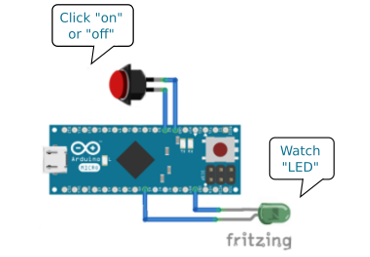
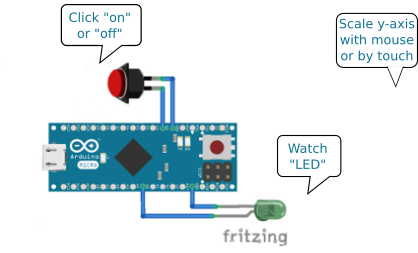
v0.12.2 (io graph multi-touch scaling)

Changed region(s): [[0.0892, 0.249, 0.9216, 0.9684], [0.8027, 0.0277, 1.0, 0.3597], [0.1189, 0.0, 0.3865, 0.249]]

diff --git a/examples/io/index.js b/examples/io/index.js
@@ -8,6 +8,7 @@ gui.init( 'I/O' )
   
 // create a IO view on page
 var ioView = gui.addIoView()
+ioView.height = '600px'
 
 // change update speed to 1 sec (= 1000 ms)
 ioView.setUpdateMilliSec( 10000 )
@@ -76,27 +77,47 @@ ioView.addIoElementConfig(
               min:"0", max:"10",
               scaleHiMin:"5", scaleHiMax:"50",
 							scaleLoMin:"0", scaleLoMax:"50",
-              labels:["0","2.5","5","7.5","10","20","30","40","50"],
-              grid:['5','10','15','20','25','30','35','40','45']
+              labelsLo:["0","10","20","30","40","50"],
+						  labels:["5","15","25","35","45"],
+							labelsHi:["1","2","3","4","6","7","8","9",
+                        "11","12","13","14","16","17","18","19",
+                        "21","22","23","24","26","27","28","29",
+                        "31","32","33","34","36","37","38","39",
+                        "41","42","43","44","46","47","48","49"],
+							grid:"label"
           },
           xAxis:{ axisType:"time", labelCnt:'5', gridColor:'#EEE' }
       },
-      pos:{ x:"400", y:"20" }
+      pos:{ x:"400", y:"100" }
     }
 )
 var advGraph = []
-for ( var i=0; i<6; i++ ) { 
+for ( var i=0; i<4; i++ ) { 
     //advGraph.push( { name: 'A' + i, cnt: 0, data: [] } )
     advGraph.push( 
       { name: 'A' + i, 
-        cnt: Date.now() - 1000000, // just a helper to generate the time line 
+        cnt: Date.now() - 100*2000, // just a helper to generate the time line 
         data: [] } 
     )  
-    for ( var j=0; j<500; j++ ) { // fill up with 500 values, to permit streching
+    for ( var j=0; j<100; j++ ) { // fill up with 500 values, to permit streching
         advGraph[i].data.push( [ advGraph[i].cnt, i+2.2+ Math.random()/2 ] ) //add some dummy data => i+1
         advGraph[i].cnt = advGraph[i].cnt + 2000
     }
 }
+
+for ( var i=4; i<6; i++ ) { 
+    //advGraph.push( { name: 'A' + i, cnt: 0, data: [] } )
+    advGraph.push( 
+      { name: 'A' + i, 
+        cnt: Date.now() - 100*2000, // just a helper to generate the time line 
+        data: [] } 
+    )  
+    for ( var j=0; j<100; j++ ) { // fill up with 500 values, to permit streching
+        advGraph[i].data.push( [ advGraph[i].cnt, i*10-15 + Math.random()*10 ] ) //add some dummy data => i+1
+        advGraph[i].cnt = advGraph[i].cnt + 2000
+    }
+}
+
 // add data for gui elmenet with id="advGraph"
 gui.io[ ioView.ioId ]['advGraph'] = advGraph
 

diff --git a/examples/io/README.md b/examples/io/README.md
@@ -11,9 +11,10 @@ The "call back" method of the switch is configured to set the LED.
 2. run `npm install`
 3. in this directory simply run: `node index.js`
  
-Hint: Drag y-Axis to scale the graph! 
+Hint: Drag y-axis to scale the graph! 
 Click in the upper section and dragging up or down modify the maximum -- 
 click and drag the lower part axis modifies the minimum.
+Touch and multi-rouch is also supported for scaling the y-axis.
 
 # More complex example
 This is my Arduino controller GUI:

diff --git a/ReleaseNotes.md b/ReleaseNotes.md
@@ -1,3 +1,6 @@
+## 0.12.2
+- IO graph y-axis scaling supports multi-touch
+
 ## 0.12.1
 - support ReST-Web-UI 0.9.7, with scalable IO graphs
  
